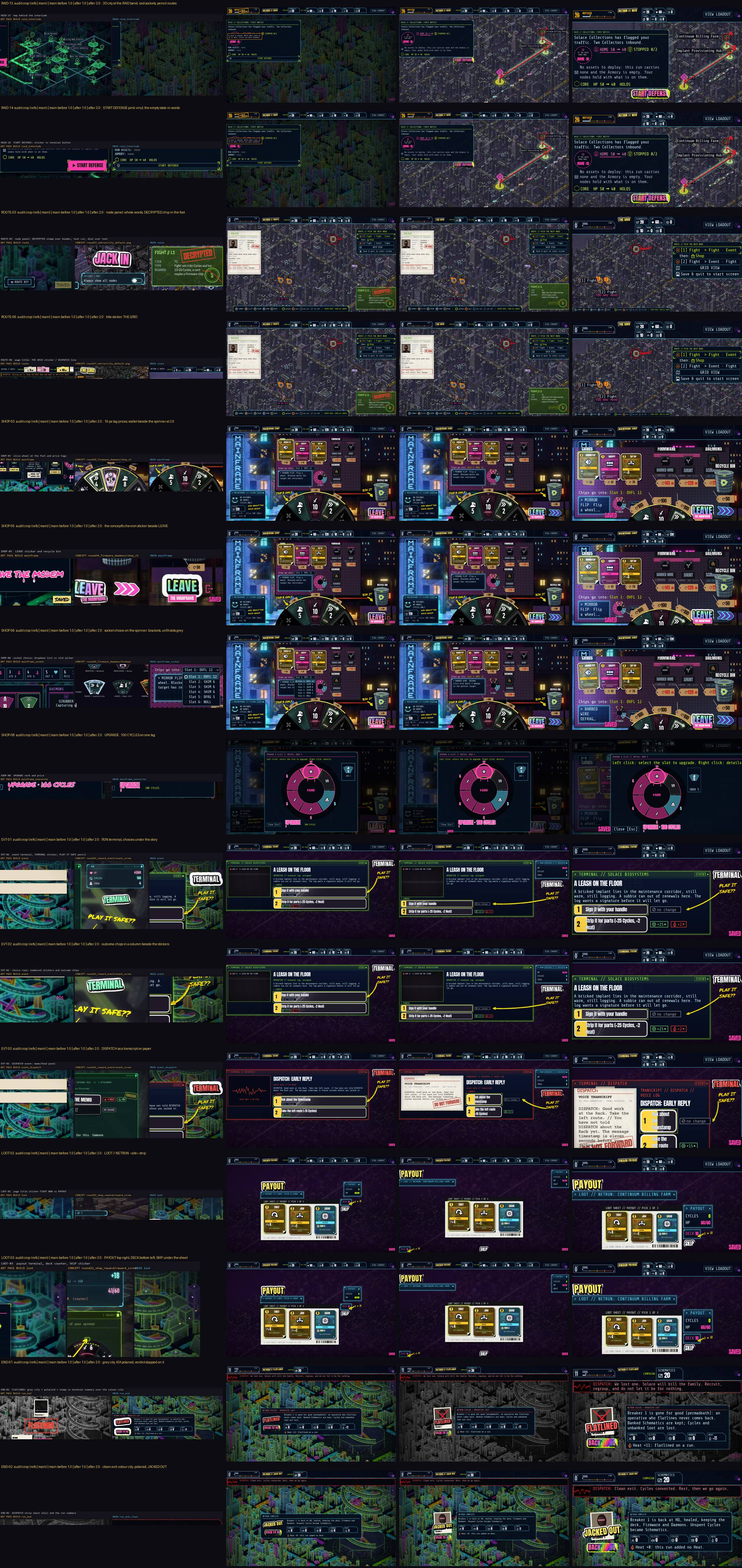
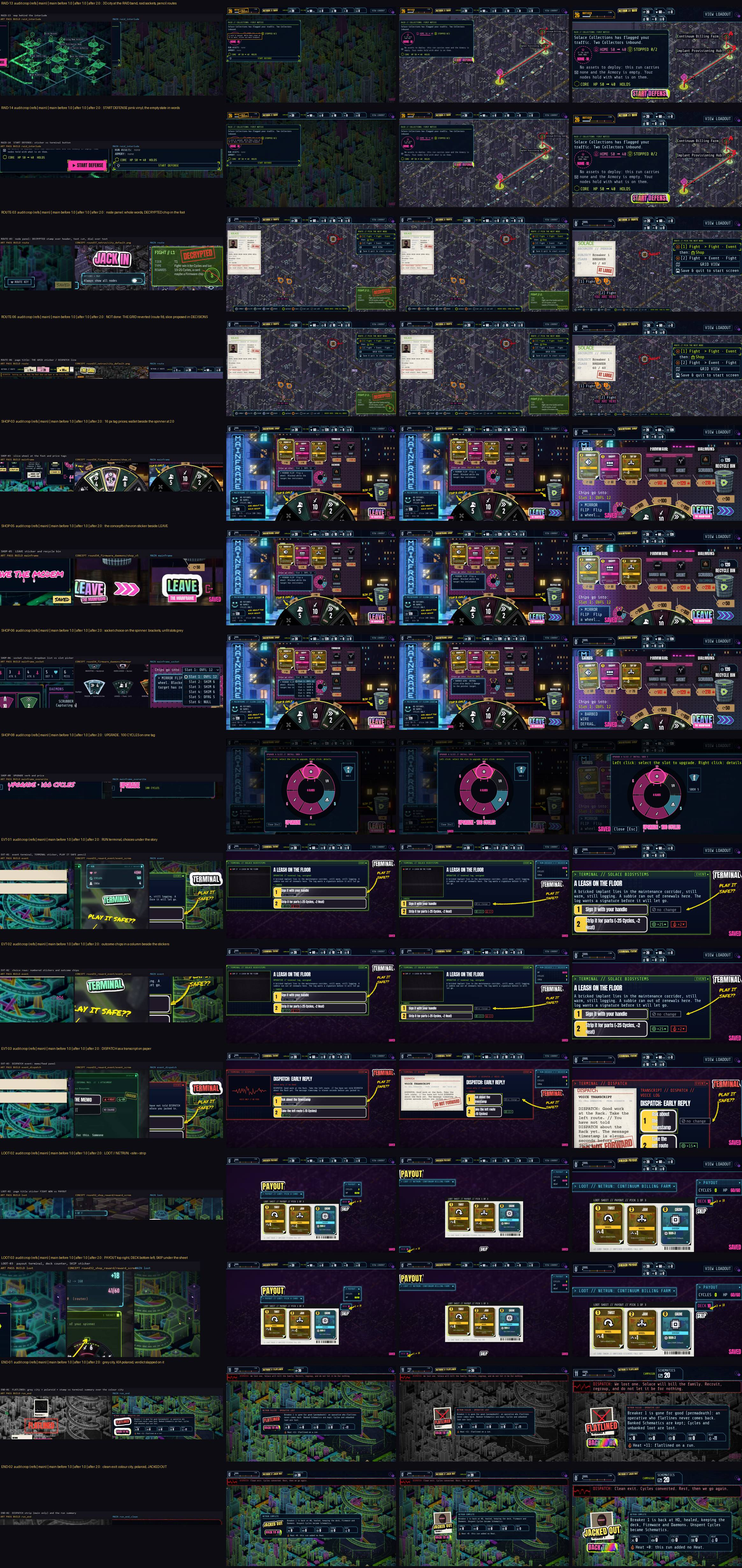
Parity fix netrun pages, round 2: fit at 1.0 / 1.6 / 2.0, the boss run's bar title, ROUTE-06 reverted with its slice
- SHOP-03: the wallet at big text ends the Daemons' row (DaemonShelf), clear of the wheel's tags and the subtitle band
- LOOT-03: big words: the title's words lead a short strip, PAYOUT's lines side by side; the cards give way once laid out (_fit_loot_height, never under 1 nor 1.25 where grown)
- ROUTE-03: the route holo has no seal (DecryptedHoloPanel.seal, the concept's DEPOT 15 holo); DECRYPTED a chip in the foot's corner
- The grey city shader moved to shaders/ (not a kit material); the DECRYPTED chip letters at a type step; the RUN terminal's Cycles in acid
- S-HQRUN relay: a boss (HQ) run's map shows no bar title (set_screen("", ""))
- ROUTE-06 not done: THE GRID shifts the bar's wrap and S-ROUTE's route fit then hides Meridian's YOU ARE HERE at 1.6; slice proposed (DECISIONS)

diff --git a/docs/DECISIONS.md b/docs/DECISIONS.md
@@ -63,13 +63,18 @@ after 1.0 | after 2.0): `docs/art_review/PARITY/fixes/NETRUN.jpg`.
   The concept's OPTIONS > MAP switch duplicates the key strip's "HOVER HERE: SHOW ALL NODES" and Options > Display's
   row: not added (proposed slice if the designer wants it on the page: a one-row terminal under the node panel, shown
   when the ROUTE column has room).
-- **ROUTE-06.** The route's title sticker reads THE GRID (concept word) in the bar's title slot (HEAT-ALL's rule for
-  page titles); GRID VIEW keeps it. Tests `test_anim_r5_netrun`, `test_heat_all` read THE GRID (was NETRUN // ROUTE).
-  Orchestrator relay (S-HQRUN, 2026-10-06): a boss (HQ) run's map shows no bar title (`set_screen("", "")`): its page
-  has its own title sticker, the band shows the Heat gauge, as the HQ does.
+- **ROUTE-06 (not done, slice proposed).** Renaming the route's title sticker THE GRID (concept word) was built and
+  reverted: the shorter word changes how the bar wraps its tags at 1.6, and the route's fit (`fit_route_map`, S-ROUTE's)
+  then frames Meridian's YOU ARE HERE on the key strip, where its label has no spot (`test_art7_netrun::test_the_route_
+  sweeps_every_corporation...`, red with the word, green without; checked by swapping only the word). Proposed slice for
+  S-ROUTE: the fit's free area leaves out the key strip the labels avoid (`route_free_area` vs `label_blocks`), then the
+  word changes (one constant, `NetrunScene.ROUTE_TITLE`, and three test strings). Orchestrator relay (S-HQRUN,
+  2026-10-06), built: a boss (HQ) run's map shows no bar title (`set_screen("", "")`): its page has its own title
+  sticker and the band shows the Heat gauge, as the HQ does.
 - **SHOP-03.** `BuyButton.BUY_FONT` 16 (was 13), the concept's tag lettering. At big text (SHOP_WIDE_FROM up) the
-  wallet stands in the info row beside the spinner (under the Daemons the stock wheel's right tag, lettered bigger,
-  reached it at 2.0: `test_art9_4a_shop`'s wallet check).
+  wallet stands at the end of the Daemons' row (`DaemonShelf`): under the Daemons the stock wheel's right tag, lettered
+  bigger, reached it at 2.0 (`test_art9_4a_shop`'s wallet check); beside the info strip the left tag did; at the
+  DAEMONS tape the subtitle band covered it.
 - **SHOP-05 (reuse rule).** `tools/art_bake/mainframe_parts_bake.py --part leave` runs round 34 `shop2.leave_sticker()`
   on tag art-concepts-r43 unchanged and saves its arrow sticker placed as `shop2.place_leave` places it (angle -4,
   scale 0.7) -> `assets/ui/mainframe/leave_arrow.png` (+ parts.json). `LeaveIcon` is a flat Button with that art (a
@@ -99,23 +104,26 @@ after 1.0 | after 2.0): `docs/art_review/PARITY/fixes/NETRUN.jpg`.
   the right column headed TRANSCRIPT // DISPATCH // VOICE LOG; the waveform feed is gone from events.
 - **LOOT-02.** The title sticker stays the payout's source (FIGHT WON, ELITE DOWN, RACK BREACHED, as ANIM-R6 B10);
   the strip is the concept's "LOOT // NETRUN: <SITE> // <NODE> n OF N" (`loot_strip`; the Site only off a node).
+  From text 1.25 the title sticker's words lead a short strip instead ("FIGHT WON // FIGHT 3 OF 7") so the strip and
+  PAYOUT share the top row and the sheet keeps the screen.
 - **LOOT-03.** PAYOUT top right: CYCLES as this payout's `+N` (the session's own `cycles` events, `payout_of`), "wallet
   a -> b", HP, HEAT (+n, the payout's Heat events); the DECK counter with its "+1 = N" pencil bottom left and SKIP
-  under the sheet. From text 1.25 (`LOOT_SIDE_FROM`) PAYOUT, the DECK counter and SKIP stand in the column beside the
-  sheet (the wallet line and a +0 Heat line go there), and the cards' scale gives way to the screen's height under the
-  bar and title (`LOOT_SHEET_CHROME`, `LOOT_FOOT_ROOM`, `LOOT_PAGE_MARGIN`; it scrolled at 1.6 and 2.0). **Not built:**
+  under the sheet. From text 1.25 (`LOOT_SIDE_FROM`) PAYOUT's lines stand side by side (the wallet line and a +0 Heat
+  line go), the DECK counter and SKIP stand in the column beside the sheet, and once laid out with its bar the page's
+  cards give way by what it is over the screen (`_fit_loot_height`: never under 1, nor under `LOOT_BIG_FLOOR` 1.25 where
+  they had grown past it, so H-pass 21's "loot cards grow" holds; it scrolled at 1.6 and 2.0). **Not built:**
   the concept's CONTINUE (a pick takes the card and goes on; a separate confirm is a flow change, not a look:
   proposed slice if wanted).
 - **END-01 / END-02.** The run end is the build's RunEndStage in v2: beside the report terminal (main's richer
   content kept: fate, tags, Heat reason) the operative's Polaroid (4B's `Polaroid`; FLATLINED: `kia`, greyed and struck
   out in red pencil) with the verdict sticker slapped over its lower half and BACK TO HQ under it; a lost run (FLATLINED,
-  HOME FELL) greys the city behind the page (`shaders/kit/screen_grey.gdshader`, the build's GRADE_CODE: greyscale,
+  HOME FELL) greys the city behind the page (`shaders/screen_grey.gdshader`, the build's GRADE_CODE: greyscale,
   dim 0.35; static, the page's entrance brings it in, reduce effects shows it at once); a clean exit keeps its colour.
   `END_WIDTH` 600 (the verdict column left the window). Motion: the verdict's `sticker_slap` as before; no new entry.
 - **Tests changed (look pinned, behaviour kept):** `test_anim4b_run_drag_drop`, `test_anim_r5_netrun`,
   `test_horizontal_pass21_screens` (the socket choice is the spinner: `choose`, its slot tips; the run end's row is in
   the middle, the city greys), `test_anim_r6_netrun`, `test_horizontal_pass21_screens` (LEAVE's mark is the concept's
-  chevron), `test_heat_all`, `test_anim_r5_netrun` (THE GRID), `test_anim_r5_city` (the interlude is the 3D raid view:
+  chevron), `test_anim_r5_city` (the interlude is the 3D raid view:
   nothing baked; it frames CORE and the entries its map shows), `test_anim_r1_campaign`, `test_horizontal_pass21_screens`
   (outcome chips beside the choice). No test dropped. `tools/visual_qa/review_pack.gd` `mainframe_socket` points at a
   chip so the spinner's marks show.

diff --git a/docs/art_review/PARITY/GAPS.md b/docs/art_review/PARITY/GAPS.md
@@ -237,7 +237,7 @@ Decision:
 
 **ROUTE-06 (P2) Page title.** Concept: `THE GRID` title sticker top left (the run's map). Build:
 DISPATCH line under the top bar. Main: top-bar words `NETRUN // ROUTE` only; no DISPATCH line on
-this frame. Decision: Match concept (designer group ruling 2026-10-05): fixed, the title sticker reads THE GRID; sheet `fixes/NETRUN.jpg`; DECISIONS "Parity fix — netrun pages"
+this frame. Decision: Match concept (designer group ruling 2026-10-05): NOT done yet, built then reverted: the word THE GRID shifts the bar's wrap and S-ROUTE's route fit then hides YOU ARE HERE (Meridian 1.6); slice proposed to S-ROUTE in DECISIONS "Parity fix — netrun pages"
 
 ### Jack-in (`jack_in.jpg`)
 Ref: build `jack_in`; concept `round37_netrun/transition_storyboard.png`.
